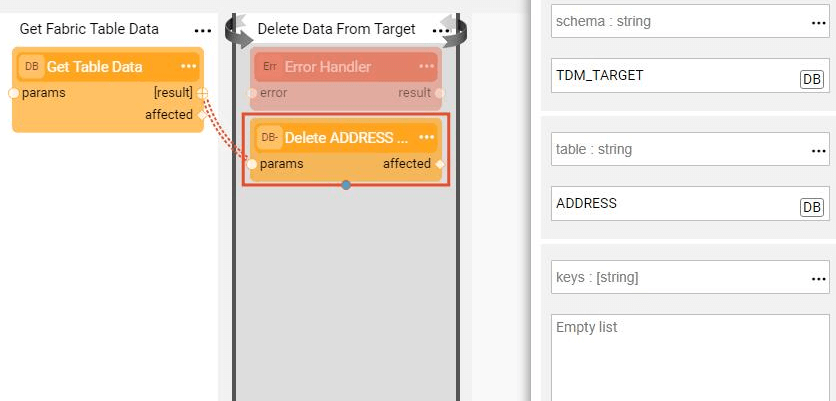
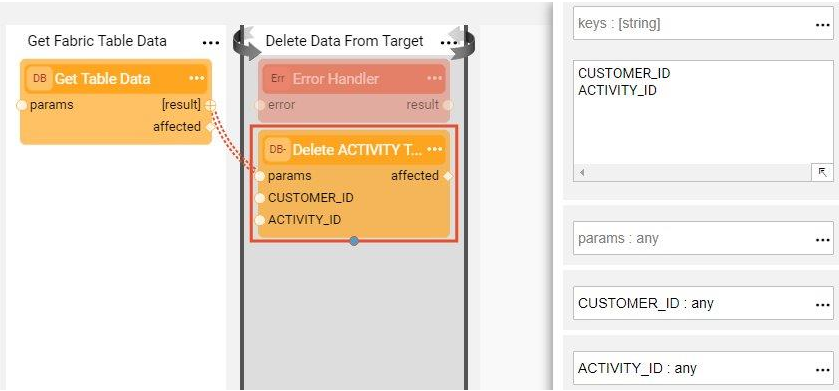
TDM impl broadway flows - updates

diff --git a/articles/TDM/tdm_implementation/11_tdm_implementation_using_generic_flows.md b/articles/TDM/tdm_implementation/11_tdm_implementation_using_generic_flows.md
@@ -6,16 +6,16 @@ The TDM library has sets of generic flows that enable creating a standard TDM im
 
 ### Step 1 - Define Tables to Filter Out
 
-Before starting the TDM implementation process, define the tables that are filtered out during the TDM Load to Target process. The library includes settings for the following filtered auxiliary tables:
+Before starting the TDM implementation process, define the tables that are filtered out during the DELETE and LOAD flows. The library includes settings for the following filtered auxiliary tables:
 
 ![image](images/11_tdm_impl_actor_1.PNG)
 
-This setting is implemented using the **TDMFilterOutTargetTables** Actor. To filter more tables from the TDM load, edit the Actor's settings. 
+This setting is implemented using the **TDMFilterOutTargetTables** Actor. To filter more tables, open the **TDMFilterOutTargetTables** Actor and edit its **table** object. The **lu_name** column should be populated as follows:
 
-To do so, open the **TDMFilterOutTargetTables** Actor and edit its table input argument. The **lu_name** column should be populated as follows:
-
-* ALL_LUS, when a table is relevant for all TDM Logical Units.
+* ALL_LUS, when a filtered table is relevant for all TDM Logical Units.
 * [LU name], when a table belongs to a specific LU.
+
+Note that you must refresh the project by clicking the ![image](images/11_tdm_refresh.PNG) button on top of the project tree to apply the changes in the **TDMFilterOutTargetTables** Actor.
 
 ![image](images/11_tdm_impl_actor_2.PNG)
 
@@ -27,7 +27,7 @@ In this step you will run the generic **createFlowsFromTemplates.flow** from the
 
 1. #### Create a LOAD flow per table
 
-Performed by the **createLoadTableFlows.flow** that receives the Logical Unit name, target interface and target schema and retrieves the list of tables from the LU Schema. It then creates a Broadway flow to load the data into each table in the target DB. The name of each newly created flow is **load_[Table Name].flow**. For example, load_Customer.flow. The tables defined in this step are filtered out and the flow is not created for them. 
+Performed by the **createLoadTableFlows.flow** that receives the Logical Unit name, target interface and target schema and retrieves the list of tables from the LU Schema. It then creates a Broadway flow to load the data into each table in the target DB. The name of each newly created flow is **load_[Table Name].flow**. For example, load_Customer.flow. The tables defined in Step 1 are filtered out and the flow is not created for them. 
 
 2. #### Create the main LOAD flow
 
@@ -35,19 +35,19 @@ Performed by the **createLoadAllTablesFlow.flow** that receives the Logical Unit
 
 3. #### Create a DELETE flow per table
 
-Performed by the **createDeleteTableFlows.flow** that receives the Logical Unit name, target interface and target schema and retrieves the list of tables from the LU Schema. It then creates a Broadway flow to delete the data from this table in the target DB. The name of each newly created flow is **delete_[Table Name].flow**. For example, delete_CUSTOMER.flow. The tables defined in Step 2 are filtered out and the flow is not created for them. 
+Performed by the **createDeleteTableFlows.flow** that receives the Logical Unit name, target interface and target schema and retrieves the list of tables from the LU Schema. It then creates a Broadway flow to delete the data from this table in the target DB. The name of each newly created flow is **delete_[Table Name].flow**. For example, delete_CUSTOMER.flow. The tables defined in Step 1 are filtered out and the flow is not created for them. 
 
 The following two updates must be performed manually:
 
-* Populate the **sql** input argument of the **Get Table Data** Actor with the SELECT query that retrieves the keys of the data to be deleted. For example, in the delete_ADDRESS.flow, write the following query since the CUSTOMER_ID is the key of the ADDRESS table.
+* Populate the **sql** input argument of the **Get Table Data** Actor with the SELECT query that retrieves the keys of the data to be deleted. For example, in the delete_ACTIVITY.flow, write the following query since the CUSTOMER_ID and ACTIVITY_ID are the keys of the ACTIVITY table.
 
   ~~~sql
-  SELECT CUSTOMER_ID FROM TAR_CUSTOMER;
+  SELECT CUSTOMER_ID, ACTIVITY_ID FROM TAR_ACTIVITY;
   ~~~
 
   ![images](images/11_tdm_impl_delete1.PNG)
 
-* Populate the **keys** input argument of the **DbDelete** Actor. These should correlate with the table's key.
+* Populate the **keys** input argument of the **DbDelete** Actor. These should correlate with the table's keys.
 
   ![images](images/11_tdm_impl_delete2.PNG)
 
@@ -59,7 +59,7 @@ Performed by the **createDeleteAllTablesFlow.flow** that receives the Logical Un
 
 ### Step 3 - Create the TDMOrchestrator.flow from the Template
 
-Once all LOAD and DELETE flows are ready, create an orchestrator. The purpose of the **TDMOrchestrator.flow** is to encapsulate all Broadway flows in the TDM task. It includes the invocation of all steps such as:
+Once all LOAD and DELETE flows are ready, create an orchestrator. The purpose of the **TDMOrchestrator.flow** is to encapsulate all Broadway flows of the TDM task into a single flow. It includes the invocation of all steps such as:
 
 * Initiate the TDM load.
 * Delete the target data, if required by the task's [operation mode](/articles/TDM/tdm_gui/19_load_task_request_parameters_regular_mode.md#operation-mode) or the [Data Flux load task](/articles/TDM/tdm_gui/20_load_task_dataflux_mode.md[).
@@ -106,11 +106,11 @@ To create a sequence flow initiation, do the following:
 
 TDM systems often handle sensitive data. To be compliant with Data Privacy laws, Fabric enables masking sensitive fields like SSN, credit card numbers and email addresses before they are loaded either to Fabric or into the target DB.
 
-* To mask a sensitive field prior to loading it into Fabric, create a Broadway population flow for the table that includes this field and a **Masking** Actor. 
+* To mask a sensitive field prior to loading it into Fabric, create a Broadway population flow for the table that includes this field and add one or more **Masking** Actors. 
 
   ![image](images/11_tdm_impl_05.PNG)
 
-* To mask a sensitive field as part of Load to the Target DB, add a Masking Actor to the relevant **load_[Table Name].flow**. The TDM infrastructure controls enabling or disabling masking based on the settings in the global variables. There are three possible scenarios for handling masking:
+* To mask a sensitive field as part of Load to the Target DB, add a Masking Actor to the relevant **load_[Table Name].flow**. The TDM infrastructure controls enabling or disabling masking based on the settings of the global variables. There are three possible scenarios for handling masking:
 
   * When the TDM task is for synthetic data creation, masking is always enabled.
   * When The TDM task is for Data Flux, masking is always disabled.

diff --git a/articles/TDM/tdm_implementation/12_tdm_error_handling_and_statistics.md b/articles/TDM/tdm_implementation/12_tdm_error_handling_and_statistics.md
@@ -1,8 +1,8 @@
 # TDM Error Handling and Statistics Flows
 
-The TDM library has a generic Error Handling and Statistics Gathering mechanism based on Broadway capabilities that can be tailored for TDM business requirements. 
+The TDM library includes a set of generic flows for error handling and statistics gathering that are based on Broadway capabilities and are tailored for TDM business requirements. 
 
-The mechanism includes a set of generic flows that gather errors and statistics during task execution and populates them into dedicated tables. This data is used for monitoring  TDM tasks and creating TDM execution reports.
+These generic flows gather errors and statistics during task execution and populate them into dedicated tables. This data is used for monitoring  TDM tasks and creating TDM execution reports.
 
 ### How Do I Perform Error Handling in TDM?
 
@@ -11,7 +11,7 @@ The TDM library includes two utility flows that handle errors during the executi
 * PopulateTableErrorsWithFailed.flow
 * PopulateTableErrorsWithReject.flow
 
-Both utilities invoke the internal **PopulateTableErrors.flow** to populate data about errors into the **task_exe_error_detailed** table. The difference between the utilities is that PopulateTableErrorsWithFailed.flow is set on a session level:
+Both utilities invoke the internal **PopulateTableErrors.flow** to populate data about errors into the **task_exe_error_detailed** table. The difference between the utilities is that PopulateTableErrorsWithFailed.flow sets on a session level:
 
 ~~~
 ENTITY_STATUS = failed 
@@ -19,9 +19,9 @@ ENTITY_STATUS = failed
 
 PopulateTableErrorsWithFailed.flow also sets the error category as *Entity Failed* in the **task_exe_error_detailed** table, while PopulateTableErrorsWithReject.flow sets a record as *Record Rejected*.
 
-The error handling utility is invoked from each Load flow's **Load Data To Target** Stage. An error is suppressed in order to continue a task execution in the middle and to gather statistics.
+The error handling utility is invoked from each Load flow's **Load Data To Target** Stage. An error is suppressed in order to continue a task execution and reach the statistics gathering step.
 
-By default, the **PopulateTableErrorsWithFailed.flow** is invoked. If a record needs to be rejected instead of failing an entire entity, replace the Inner flow name with **PopulateTableErrorsWithReject.flow**. 
+By default, the **PopulateTableErrorsWithFailed** is invoked. If a record needs to be rejected instead of failing an entire entity, replace the Inner flow name with **PopulateTableErrorsWithReject**. 
 
 ![image](images/12_tdm_err_stat_01.PNG)
 

diff --git a/articles/TDM/tdm_implementation/10_tdm_generic_broadway_flows.md b/articles/TDM/tdm_implementation/10_tdm_generic_broadway_flows.md
@@ -5,9 +5,9 @@ The Fabric TDM library has built-in generic Broadway flows that can be easily ad
 
 ## Broadway Flows and Templates
 
-The **TDM** folder in the Broadway Shared Objects folder includes generic flows that can be used to execute TDM tasks in several Logical Units. These flows do not require manual updates and handle activities like setting global variables and sync mode, loading a reference, handling errors, populating execution statistics.
+The **TDM** folder in the Broadway Shared Objects folder includes generic flows that can be used to execute TDM tasks in several Logical Units. These flows do not require manual updates and handle activities like setting global variables and sync mode, loading reference tables, handling errors, populating execution statistics.
 
-The **Templates** folder holds the flows used for creating DELETE and LOAD flows. Since the flows receive the Logical Unit Name as an input parameter, they can be run several times for each LU.
+The **Templates** folder holds the flows used for creating DELETE and LOAD flows. Since the flows receive the Logical Unit name as an input parameter, they can be run several times for each LU.
 
 The following discusses the structure and functionality of various generic flows.
 
@@ -15,7 +15,7 @@ The following discusses the structure and functionality of various generic flows
 
 TDM task initialization is performed using the **InitiateTDMLoad.flow** utility which includes several steps like:
 
-* Setting the values of global variables of a session and sync mode.
+* Setting the values of global variables on a session level and setting sync mode.
 * Setting the source environment based on the task's source before getting the LUI.
 * Getting the LUI from Fabric.
 * Setting the target environment as a preparation step for Delete and Load.
@@ -28,7 +28,7 @@ The **InitiateTDMLoad.flow** is performed as the first step of the **TDMOrchestr
 
 The TDM library includes a set of flows that handle reference data.
 
-[Click to learn more about TDM references](09_tdm_reference_implementation.md).
+[Click to learn more about TDM Reference Implementation](09_tdm_reference_implementation.md).
 
 ### Load and Delete Generic Flows
 
